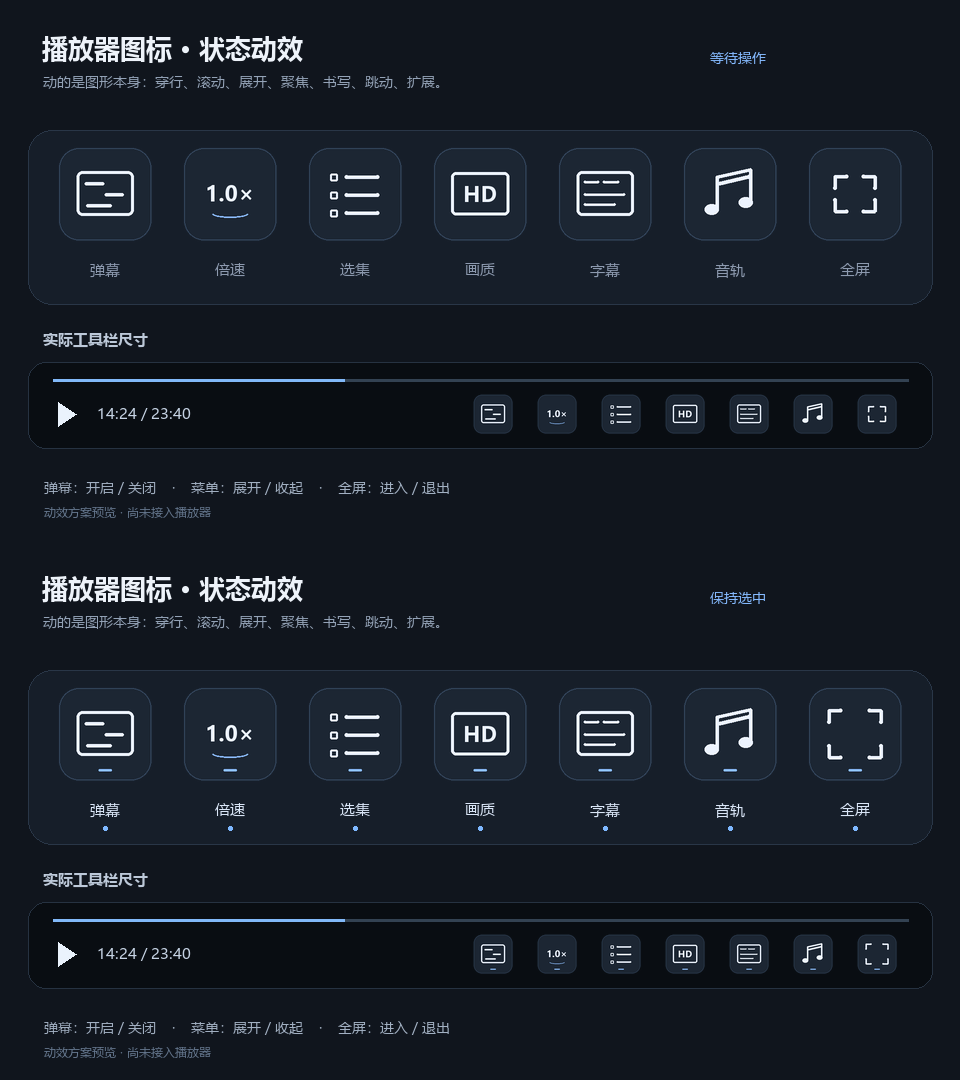
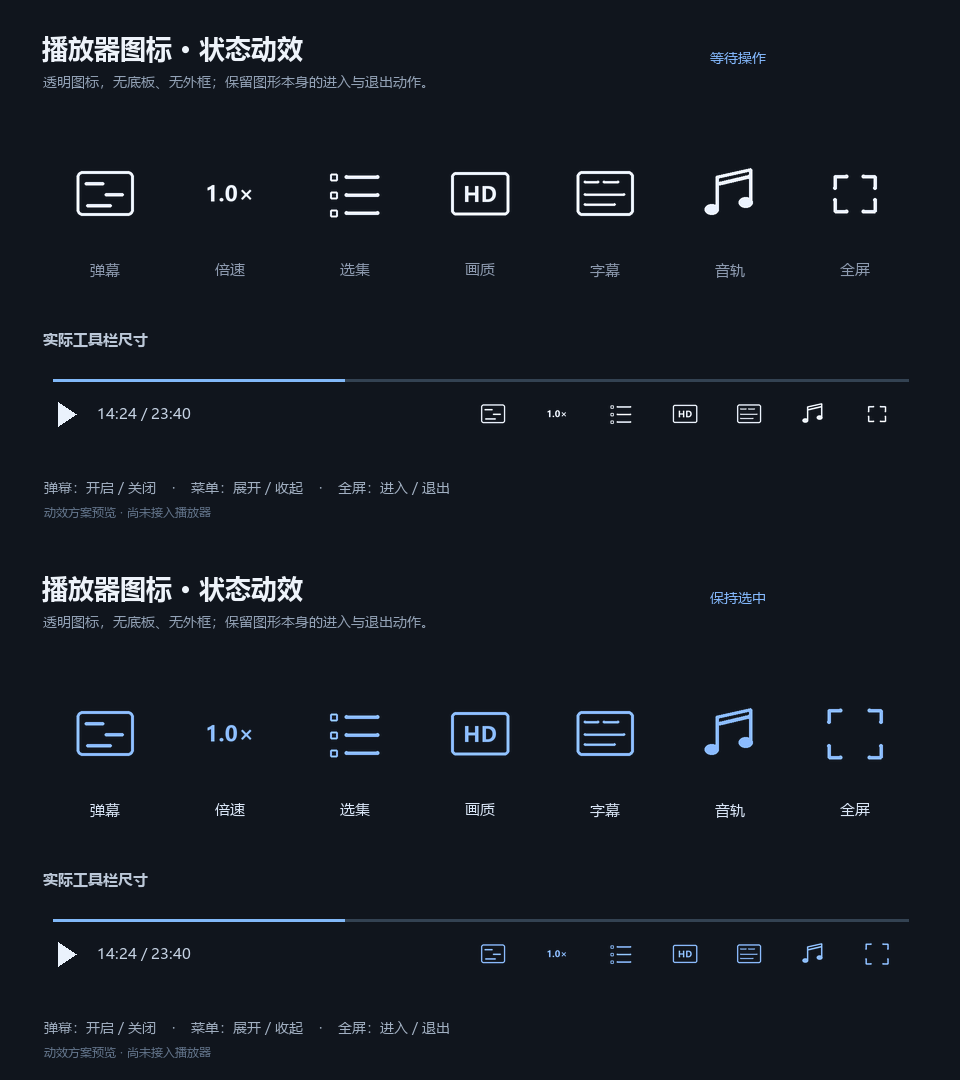
design(desktop): 去除图标底板并输出透明动画

diff --git a/design/desktop/player_icon_motion_v1/render_preview.py b/design/desktop/player_icon_motion_v1/render_preview.py
@@ -45,8 +45,8 @@ def draw_icon(index, amount=0, phase="静止", q=0):
     # 按状态图的造型拆开图形笔画，每帧绘制运动部件，文字不做叠帧混合。
     image = Image.new("RGBA", (200, 200))
     draw = ImageDraw.Draw(image)
-    ink = "#edf4ff"
-    draw.rounded_rectangle((8, 8, 192, 192), 40, fill="#1c2633", outline="#34465d", width=2)
+    # 只有图形笔画着色，图标底板与边框完全透明。
+    ink = tuple(round(a + (b - a) * amount) for a, b in zip((237, 244, 255), (140, 188, 255)))
     moving = phase != "静止"
     wave = math.sin(q * math.pi) if moving else 0
     sign = 1 if phase == "进入" else -1
@@ -87,7 +87,6 @@ def draw_icon(index, amount=0, phase="静止", q=0):
         mask = Image.new("L", (200, 200))
         ImageDraw.Draw(mask).rectangle((37, 69, 165, 125), fill=255)
         image.alpha_composite(Image.composite(layer, Image.new("RGBA", (200, 200)), mask))
-        draw.arc((64, 131, 136, 147), 5, 175, fill="#8cbcff", width=3)
     elif index == 2:
         for j in range(3):
             row_q = max(0, min(1, (q - j * 0.12) / 0.76))
@@ -124,9 +123,6 @@ def draw_icon(index, amount=0, phase="静止", q=0):
         for sx, sy in [(-1, -1), (1, -1), (-1, 1), (1, 1)]:
             x, y = 100 + sx * (40 + gap), 100 + sy * (35 + gap)
             line([(x - sx * 23, y), (x, y), (x, y - sy * 23)], width=7)
-    if amount > 0:
-        color = (140, 190, 255, round(255 * amount))
-        draw.rounded_rectangle((87, 170, 113, 174), 2, fill=color)
     return image
 
 
@@ -138,10 +134,8 @@ def backdrop():
     image = Image.new("RGBA", (WIDTH, HEIGHT), "#10151d")
     draw = ImageDraw.Draw(image)
     draw.text((42, 30), "播放器图标 · 状态动效", font=font(26, True), fill="#eef3fa")
-    draw.text((43, 72), "动的是图形本身：穿行、滚动、展开、聚焦、书写、跳动、扩展。", font=font(14), fill="#93a2b6")
-    draw.rounded_rectangle((28, 130, 932, 304), 24, fill="#161e29", outline="#293647")
+    draw.text((43, 72), "透明图标，无底板、无外框；保留图形本身的进入与退出动作。", font=font(14), fill="#93a2b6")
     draw.text((43, 329), "实际工具栏尺寸", font=font(15, True), fill="#bdc9d9")
-    draw.rounded_rectangle((28, 362, 932, 448), 18, fill="#090d12", outline="#263241")
     draw.line((53, 380, 908, 380), fill="#334252", width=3)
     draw.line((53, 380, 344, 380), fill="#81b8f8", width=3)
     draw.text((44, 478), "弹幕：开启 / 关闭    ·    菜单：展开 / 收起    ·    全屏：进入 / 退出", font=font(14), fill="#a2b0c2")
@@ -161,9 +155,6 @@ def render(t, sprites=None, all_state=None):
         size = 100
         image.alpha_composite(sprite.resize((size, size), Image.Resampling.LANCZOS), (cx - size // 2, 194 - size // 2))
         centered(draw, NAMES[i], cx, 263, 15, "#dae6f7" if amount > 0.5 else "#8d9aaf")
-        if amount > 0:
-            color = tuple(round(a + (b - a) * amount) for a, b in zip((22, 30, 41), (126, 184, 255)))
-            draw.ellipse((cx - 2, 286, cx + 2, 290), fill=color)
         small_size = 42
         small_x = 493 + i * 64
         image.alpha_composite(sprite.resize((small_size, small_size), Image.Resampling.LANCZOS), (small_x - small_size // 2, 414 - small_size // 2))
@@ -181,11 +172,11 @@ def main():
         for row in range(2):
             draw_icon(i, row).save(ROOT / f"icon-{i}-{'on' if row else 'off'}.png")
     # 先输出逐帧关键图，再把同一套绘制结果合成为循环动图。
-    keyframes = Image.new("RGB", (1400, 800), "#10151d")
+    keyframes = Image.new("RGBA", (1400, 800))
     for row, q in enumerate([0, 0.22, 0.5, 1]):
         for i in range(7):
             icon = draw_icon(i, ease(q), "进入", q)
-            keyframes.paste(icon, (i * 200, row * 200), icon)
+            keyframes.alpha_composite(icon, (i * 200, row * 200))
     keyframes.save(ROOT / "keyframes.png")
     comparison = Image.new("RGB", (WIDTH, HEIGHT * 2), "#10151d")
     comparison.paste(render(0, sprites, 0), (0, 0))
@@ -193,6 +184,15 @@ def main():
     comparison.save(ROOT / "states.png")
     frames = [render(i / FPS, sprites) for i in range(round(FPS * SECONDS))]
     frames[0].save(ROOT / "preview.webp", save_all=True, append_images=frames[1:], duration=[33, 33, 34] * (len(frames) // 3), loop=0, quality=85, method=4)
+    # 单独提供真正透明的动画，可直接叠在任意视频画面上。
+    transparent_frames = []
+    for frame in range(round(FPS * SECONDS)):
+        strip = Image.new("RGBA", (840, 144))
+        for i in range(7):
+            icon = draw_icon(i, *state(frame / FPS, i))
+            strip.alpha_composite(icon.resize((120, 120), Image.Resampling.LANCZOS), (i * 120, 12))
+        transparent_frames.append(strip)
+    transparent_frames[0].save(ROOT / "icons-transparent.webp", save_all=True, append_images=transparent_frames[1:], duration=[33, 33, 34] * (len(transparent_frames) // 3), loop=0, lossless=True, method=4)
     gif_frames = [frame.quantize(colors=128) for frame in frames[::2]]
     gif_frames[0].save(ROOT / "preview.gif", save_all=True, append_images=gif_frames[1:], duration=[60, 70, 70] * (len(gif_frames) // 3), loop=0, disposal=2, optimize=False)
     render(1.72, sprites).save(ROOT / "motion-check.png")

diff --git a/design/desktop/player_icon_motion_v1/README.md b/design/desktop/player_icon_motion_v1/README.md
@@ -6,7 +6,8 @@
 
 - `preview.webp`：30 fps 动画。
 - `preview.gif`：15 fps 兼容预览。
-- `keyframes.png`：进入动作的四个关键帧，按七个图标排列。
+- `icons-transparent.webp`：30 fps 真透明动画，只包含七个图标，可叠加到视频画面。
+- `keyframes.png`：透明背景的四个进入关键帧，按七个图标排列。
 - `states.png`：默认状态与选中状态，包含实际工具栏尺寸。
 - `icon-*-off.png` / `icon-*-on.png`：单个图标的静态状态图。
 
@@ -20,8 +21,8 @@
 | 音轨 | 两个音符交错跳动，连线随动 | 反向跳动归位 |
 | 全屏 | 四角向外展开并保持 | 四角向内收回 |
 
-底板保持同色，底部细蓝线仅标识选中状态。菜单图标的选中表示菜单展开，不表示字幕或音轨被关闭。
+图标没有背景底板、按钮外框和额外状态标记。选中时仅图形笔画由白色变为浅蓝色，图形动作保留。菜单图标的选中表示菜单展开，不表示字幕或音轨被关闭。预览中的深色画布仅用于展示，单个 PNG 和透明 WebP 不包含该画布。
 
 在 Windows 安装 Pillow 后运行 `python design/desktop/player_icon_motion_v1/render_preview.py` 可重新生成。绘制使用系统微软雅黑字体，无新增项目依赖。
 
-生成图提示词要点：七列两行的桌面视频播放器图标状态图；统一圆角、白色线框；依次为屏幕弹幕线条、1.0×、选集列表、HD、字幕、音符、全屏四角；上下两行保持同一图形造型。用户明确要求图标本身运动后，最终动画采用同色底板和部件运动。
+生成图提示词要点：七列两行的桌面视频播放器图标状态图；统一圆角、白色线框；依次为屏幕弹幕线条、1.0×、选集列表、HD、字幕、音符、全屏四角；上下两行保持同一图形造型。原始生成图仅保留为造型参考；最终动画按用户要求去掉背景颜色，采用透明图标和部件运动。
